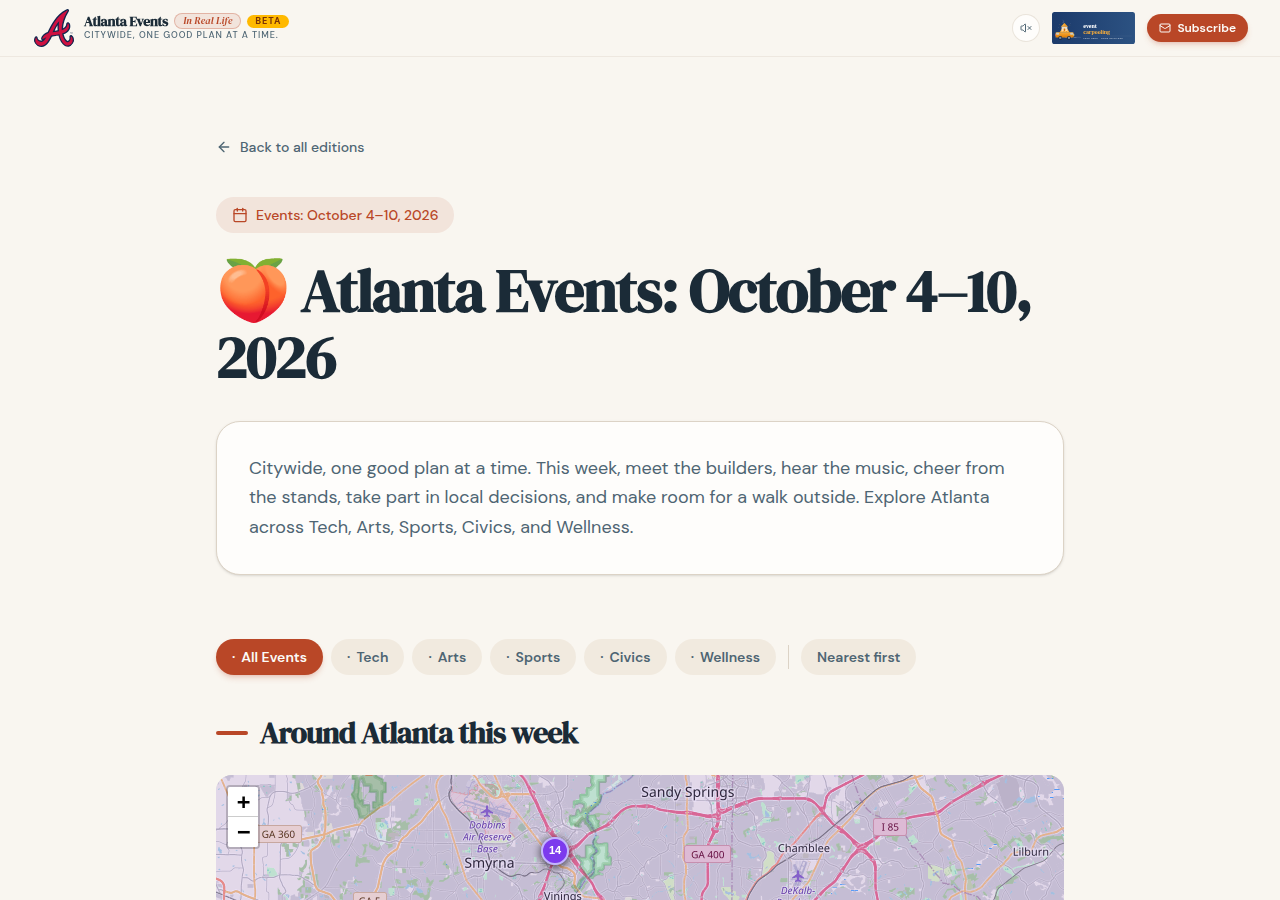
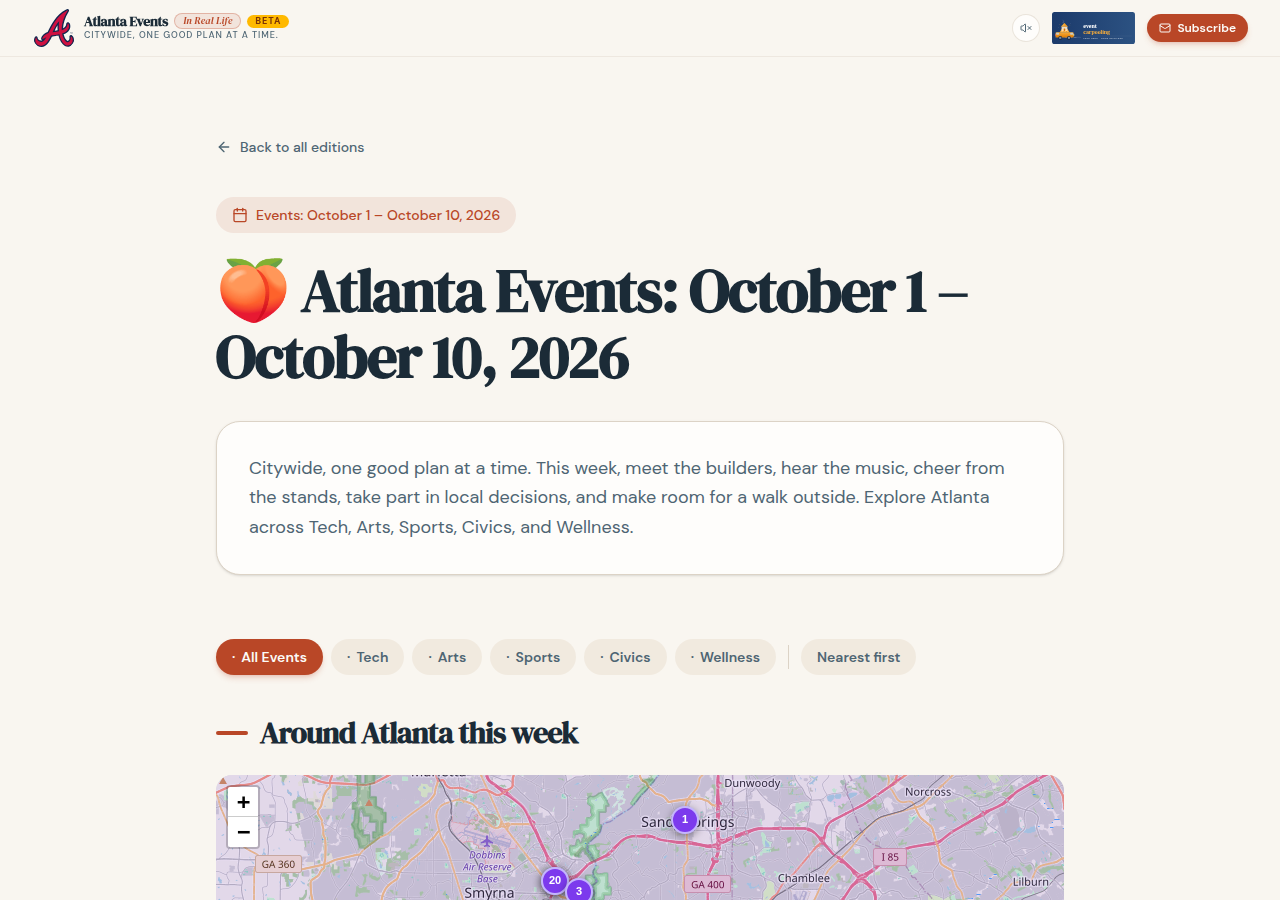
Published your App
Replit-Commit-Author: Deployment
Replit-Commit-Deployment-Build-Id: 94635ebd-a051-4239-94ce-f48657317436

diff --git a/artifacts/austin-events/src/pages/digest.tsx b/artifacts/austin-events/src/pages/digest.tsx
@@ -145,11 +145,11 @@ function getWeekMFDateRange(weekOfStr: string): string {
   return `${format(sunday, "MMMM d")} – ${format(saturday, "MMMM d")}, ${year}`;
 }
 
-function getEditionDateRange(weekOf: string, subject: string, isAustin: boolean): { label: string; extended: boolean } {
+function getEditionDateRange(weekOf: string, subject: string, allowExtendedRange: boolean): { label: string; extended: boolean } {
   const weekly = { label: getWeekMFDateRange(weekOf), extended: false };
-  if (!isAustin) return weekly;
+  if (!allowExtendedRange) return weekly;
 
-  // Austin's extended editions name their actual range in the subject.
+  // Extended editions name their actual range in the subject.
   // The internal weekOf can predate the visible start by a day; keep it stable
   // because previously sent RSVP links use it to identify this digest.
   const match = subject.match(/\b([A-Za-z]+)\s+(\d{1,2})\s+to\s+([A-Za-z]+)\s+(\d{1,2}),\s+(\d{4})\s*$/i);
@@ -390,8 +390,9 @@ export default function DigestView() {
     return null;
   }
 
-  const { label: editionDateRange, extended: isExtendedAustinEdition } =
-    getEditionDateRange(digest.weekOf, digest.subject, tenant.slug === "austin");
+  const { label: editionDateRange, extended: hasExtendedRange } =
+    getEditionDateRange(digest.weekOf, digest.subject, tenant.slug === "austin" || isAtlanta);
+  const isExtendedAustinEdition = hasExtendedRange && tenant.slug === "austin";
 
   return (
     <Layout>

diff --git a/artifacts/api-server/src/lib/emailService.ts b/artifacts/api-server/src/lib/emailService.ts
@@ -490,7 +490,7 @@ export function buildDigestEmailHtml(digest: {
   });
 
   const slug = tenant?.slug;
-  const editionRangeMatch = slug === "austin"
+  const editionRangeMatch = slug === "austin" || slug === "atlanta"
     ? digest.subject.match(/\b([A-Za-z]+\s+\d{1,2})\s+to\s+([A-Za-z]+\s+\d{1,2},\s+\d{4})\s*$/i)
     : null;
   const editionRange = editionRangeMatch
@@ -948,7 +948,7 @@ export function buildDigestEmailHtml(digest: {
       </div>
       <p style="margin:0; color:${theme.textOnDark}; font-size:14px;">${theme.cityGuideText}</p>
       ${editionRange ? `<p style="margin:8px 0 0; color:${theme.textMutedOnDark}; font-size:13px;">${escapeHtml(editionRange)}</p>` : ""}
-      ${slug !== "austin" ? `<p style="margin:8px 0 0; color:${theme.textMutedOnDark}; font-size:13px;">Week of ${weekDate}</p>` : ""}
+      ${slug !== "austin" && !editionRange ? `<p style="margin:8px 0 0; color:${theme.textMutedOnDark}; font-size:13px;">Week of ${weekDate}</p>` : ""}
       ${theme.curatorName ? `<p style="margin:8px 0 0; color:${theme.textMutedOnDark}; font-size:12px; font-style:italic;">Curated by ${theme.curatorUrl ? `<a href="${theme.curatorUrl}" style="color:${theme.textMutedOnDark}; text-decoration:underline;">${theme.curatorName}</a>` : theme.curatorName}</p>` : ""}
     </div>
 

diff --git a/artifacts/api-server/src/lib/emailService.test.ts b/artifacts/api-server/src/lib/emailService.test.ts
@@ -150,6 +150,21 @@ describe("buildDigestEmailHtml — city branding isolation", () => {
     expect(html).not.toContain("Raj");
   });
 
+  it("shows Atlanta's extended October edition range instead of a seven-day week label", () => {
+    const html = buildDigestEmailHtml(
+      {
+        ...baseDigest,
+        subject: "🍑 Atlanta Events — October 1 to October 10, 2026",
+        weekOf: "2026-10-01T00:00:00.000Z",
+      },
+      null,
+      null,
+      { slug: "atlanta", name: "Atlanta Events", city: "Atlanta, GA", digestTitle: "Atlanta Events" }
+    );
+    expect(html).toContain("October 1 – October 10, 2026");
+    expect(html).not.toContain("Week of Thursday, October 1, 2026");
+  });
+
   it("Portland digest contains 🌲 and Portland red, not 🤠", () => {
     const html = buildDigestEmailHtml(
       baseDigest,

diff --git a/artifacts/austin-events/src/pages/home.tsx b/artifacts/austin-events/src/pages/home.tsx
@@ -114,7 +114,7 @@ export default function Home() {
   }
 
   const latestDigest = latestDigestRes?.digest;
-  const latestIssueRangeMatch = tenant.slug === "austin"
+  const latestIssueRangeMatch = tenant.slug === "austin" || tenant.slug === "atlanta"
     ? latestDigest?.subject.match(/\b([A-Za-z]+\s+\d{1,2})\s+to\s+([A-Za-z]+\s+\d{1,2},\s+\d{4})\s*$/i)
     : null;
   const latestIssueRange = latestIssueRangeMatch
